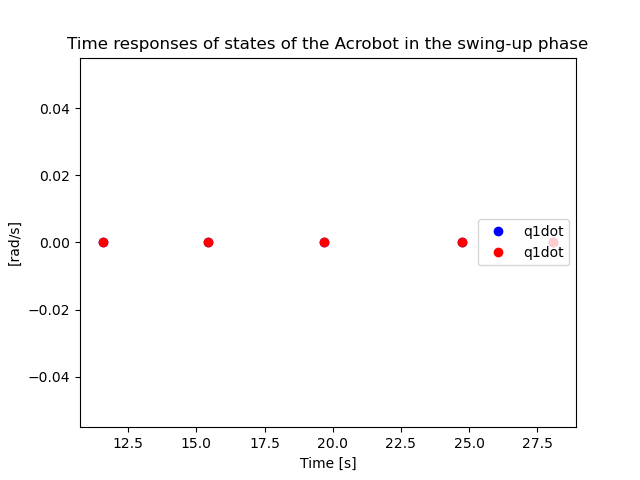
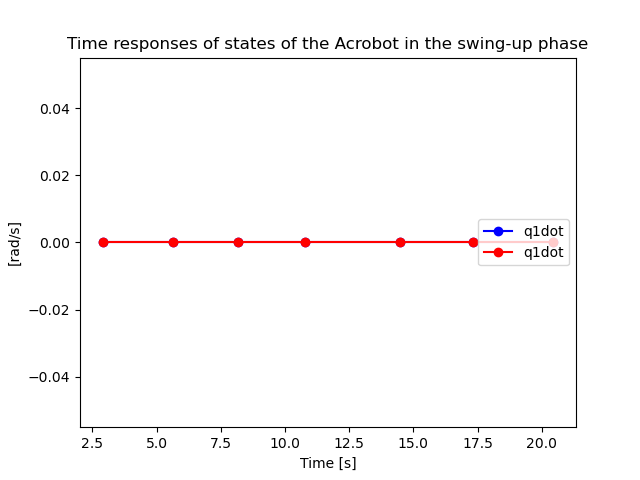
some graphic issue fixed

diff --git a/PROGETTO_ACROBOT/energy_Luca.py b/PROGETTO_ACROBOT/energy_Luca.py
@@ -110,8 +110,8 @@ def simulate():
     # Plot the initial empty data
     plot_utils.init_plot(tauPlot, 'Time [s]', '\u03C4' + '2 [Nm]', 'Time responses of ' + '\u03C4'+ '2 of the Acrobot in the swing-up phase')
     plot_utils.init_plot(energyPlot, 'Time [s]', 'E−Er [J]', 'Time responses of E of the Acrobot in the swing-up phase')
-    plot_utils.init_plot(qPlot, 'Time [s]', '[rad/s]', 'Time responses of E of the Acrobot in the swing-up phase')
-    plot_utils.init_plot(qdotPlot, 'Time [s]', '[rad]', 'Time responses of states of the Acrobot in the swing-up phase')
+    plot_utils.init_plot(qPlot, 'Time [s]', '[rad]', 'Time responses of states of the Acrobot in the swing-up phase')
+    plot_utils.init_plot(qdotPlot, 'Time [s]', '[rad/s]', 'Time responses of states of the Acrobot in the swing-up phase')
 
     # Create a directory for the files
     folder_path ='plots'
@@ -122,10 +122,10 @@ def simulate():
         os.makedirs(folder_path, exist_ok=True)
 
     # Generate a unique filename for each plot
-        filename1 = os.path.join(folder_path, f'torque')
-        filename2 = os.path.join(folder_path, f'energy')
-        filename3 = os.path.join(folder_path, f'q')
-        filename4 = os.path.join(folder_path, f'qdot')
+    filename1 = os.path.join(folder_path, f'torque')
+    filename2 = os.path.join(folder_path, f'energy')
+    filename3 = os.path.join(folder_path, f'q')
+    filename4 = os.path.join(folder_path, f'qdot')
 
     # Initialize start time
     start_time = time.time()
@@ -133,6 +133,10 @@ def simulate():
     xValues = []
     tau_yValues = []
     energy_yValues = []
+    q1_Values = []
+    q2_Values = []
+    q1dot_Values = []
+    q2dot_Values = []
     
     # Control loop
     input("press ENTER to START the simulation:")
@@ -152,17 +156,25 @@ def simulate():
         xValues.append(x)
         tau_yValues.append(tauY)
         energy_yValues.append(energy)
+        q1_Values.append((current_state[0] - 1.57))
+        q2_Values.append(current_state[1])
+        q1dot_Values.append(dot_current_state[0])
+        q2dot_Values.append(dot_current_state[1])
+
+
 
         # Update the csv
         plot_utils.csv_write(x, tauY, filename1)
         plot_utils.csv_write(x, energyY, filename2)
+        plot_utils.csv_write_multiple(x, (current_state[0] - 1.57), current_state[1], filename3)
+        plot_utils.csv_write_multiple(x, dot_current_state[0], dot_current_state[1], filename4)
         
 
         # Update the plot
         plot_utils.update_plot(tauPlot, xValues, tau_yValues, 'Time [s]', '\u03C4' + '2 [Nm]', 'Time responses of ' + '\u03C4'+ '2 of the Acrobot in the swing-up phase', filename1)
         plot_utils.update_plot(energyPlot, xValues, energy_yValues, 'Time [s]', 'E−Er [J]', 'Time responses of E of the Acrobot in the swing-up phase', filename2)
-        plot_utils.update_2line_plot(qPlot, x, (current_state[0] - 1.57), current_state[1],  'Time [s]', '[rad]', 'q1-pi/2', 'q1', 'Time responses of states of the Acrobot in the swing-up phase',filename3)
-        plot_utils.update_2line_plot(qdotPlot, x, dot_current_state[0], dot_current_state[1],  'Time [s]', '[rad/s]', 'q1dot', 'q1dot', 'Time responses of states of the Acrobot in the swing-up phase',filename4)
+        plot_utils.update_2line_plot(qPlot, xValues, q1_Values, q2_Values,  'Time [s]', '[rad]', 'q1-pi/2', 'q1', 'Time responses of states of the Acrobot in the swing-up phase',filename3)
+        plot_utils.update_2line_plot(qdotPlot, xValues, q1dot_Values, q2dot_Values,  'Time [s]', '[rad/s]', 'q1dot', 'q1dot', 'Time responses of states of the Acrobot in the swing-up phase',filename4)
         
 
         #plt.pause(0.001)

diff --git a/PROGETTO_ACROBOT/plot_utils.py b/PROGETTO_ACROBOT/plot_utils.py
@@ -9,14 +9,6 @@ def init_plot(plt, xAxisLabel, yAxisLabel, title):
     plt.set_title(title)
         
 
-
-def csv_write(x, y, fileName):
-    with open(fileName + '.csv', 'a', newline='') as csvfile:
-        writer = csv.writer(csvfile, delimiter=';')
-        if csvfile.tell() == 0:
-            writer.writerow(['X', 'Y'])
-        writer.writerow([x, y])
-
 def update_plot(plt, x, y, xAxisLabel, yAxisLabel, title, fileName):
     # Clear the plot before to add a new point
     plt.clear()
@@ -32,17 +24,24 @@ def update_plot(plt, x, y, xAxisLabel, yAxisLabel, title, fileName):
     # Save the plot as a PNG image
     plt.figure.savefig(fileName + '.png', format='png')
 
+    # Display the plot
+    #plt.pause(0.001)
+    plt.figure.canvas.draw()
+    plt.figure.canvas.flush_events()
+
 
 
 def update_2line_plot(plt, x, y1, y2, xAxisLabel, yAxisLabel, label1, label2, title, fileName):
+    # Clear the plot before to add a new point
+    plt.clear()
 
     # Set labels and title
     plt.set_xlabel(xAxisLabel)
     plt.set_ylabel(yAxisLabel)
     plt.set_title(title)
 
-    plt.plot(x, y1, 'o', color='blue', label = label1)
-    plt.plot(x, y2, 'o', color='red', label = label2)
+    plt.plot(x, y1, '-o', color='blue', label = label1)
+    plt.plot(x, y2, '-o', color='red', label = label2)
 
     legend = plt.get_legend()
     if not legend:
@@ -52,6 +51,20 @@ def update_2line_plot(plt, x, y1, y2, xAxisLabel, yAxisLabel, label1, label2, ti
     # Save the plot as a PNG image
     plt.figure.savefig(fileName + '.png', format='png')
 
+    # Display the plot
+    #plt.pause(0.001)
+    plt.figure.canvas.draw()
+    plt.figure.canvas.flush_events()
+
+
+def csv_write(x, y, fileName):
+    with open(fileName + '.csv', 'a', newline='') as csvfile:
+        writer = csv.writer(csvfile, delimiter=';')
+        if csvfile.tell() == 0:
+            writer.writerow(['X', 'Y'])
+        writer.writerow([x, y])
+        
+def csv_write_multiple(x, y1, y2, fileName):
     # Save the points as a CSV file
     with open(fileName + '.csv', 'a', newline='') as csvfile:
         writer = csv.writer(csvfile, delimiter=';')
@@ -59,8 +72,7 @@ def update_2line_plot(plt, x, y1, y2, xAxisLabel, yAxisLabel, label1, label2, ti
             writer.writerow(['X', 'Y1', 'Y2'])
         writer.writerow([x, y1, y2])
 
-    plt.figure.canvas.draw()
-    plt.figure.canvas.flush_events()
+    
 
     
 
